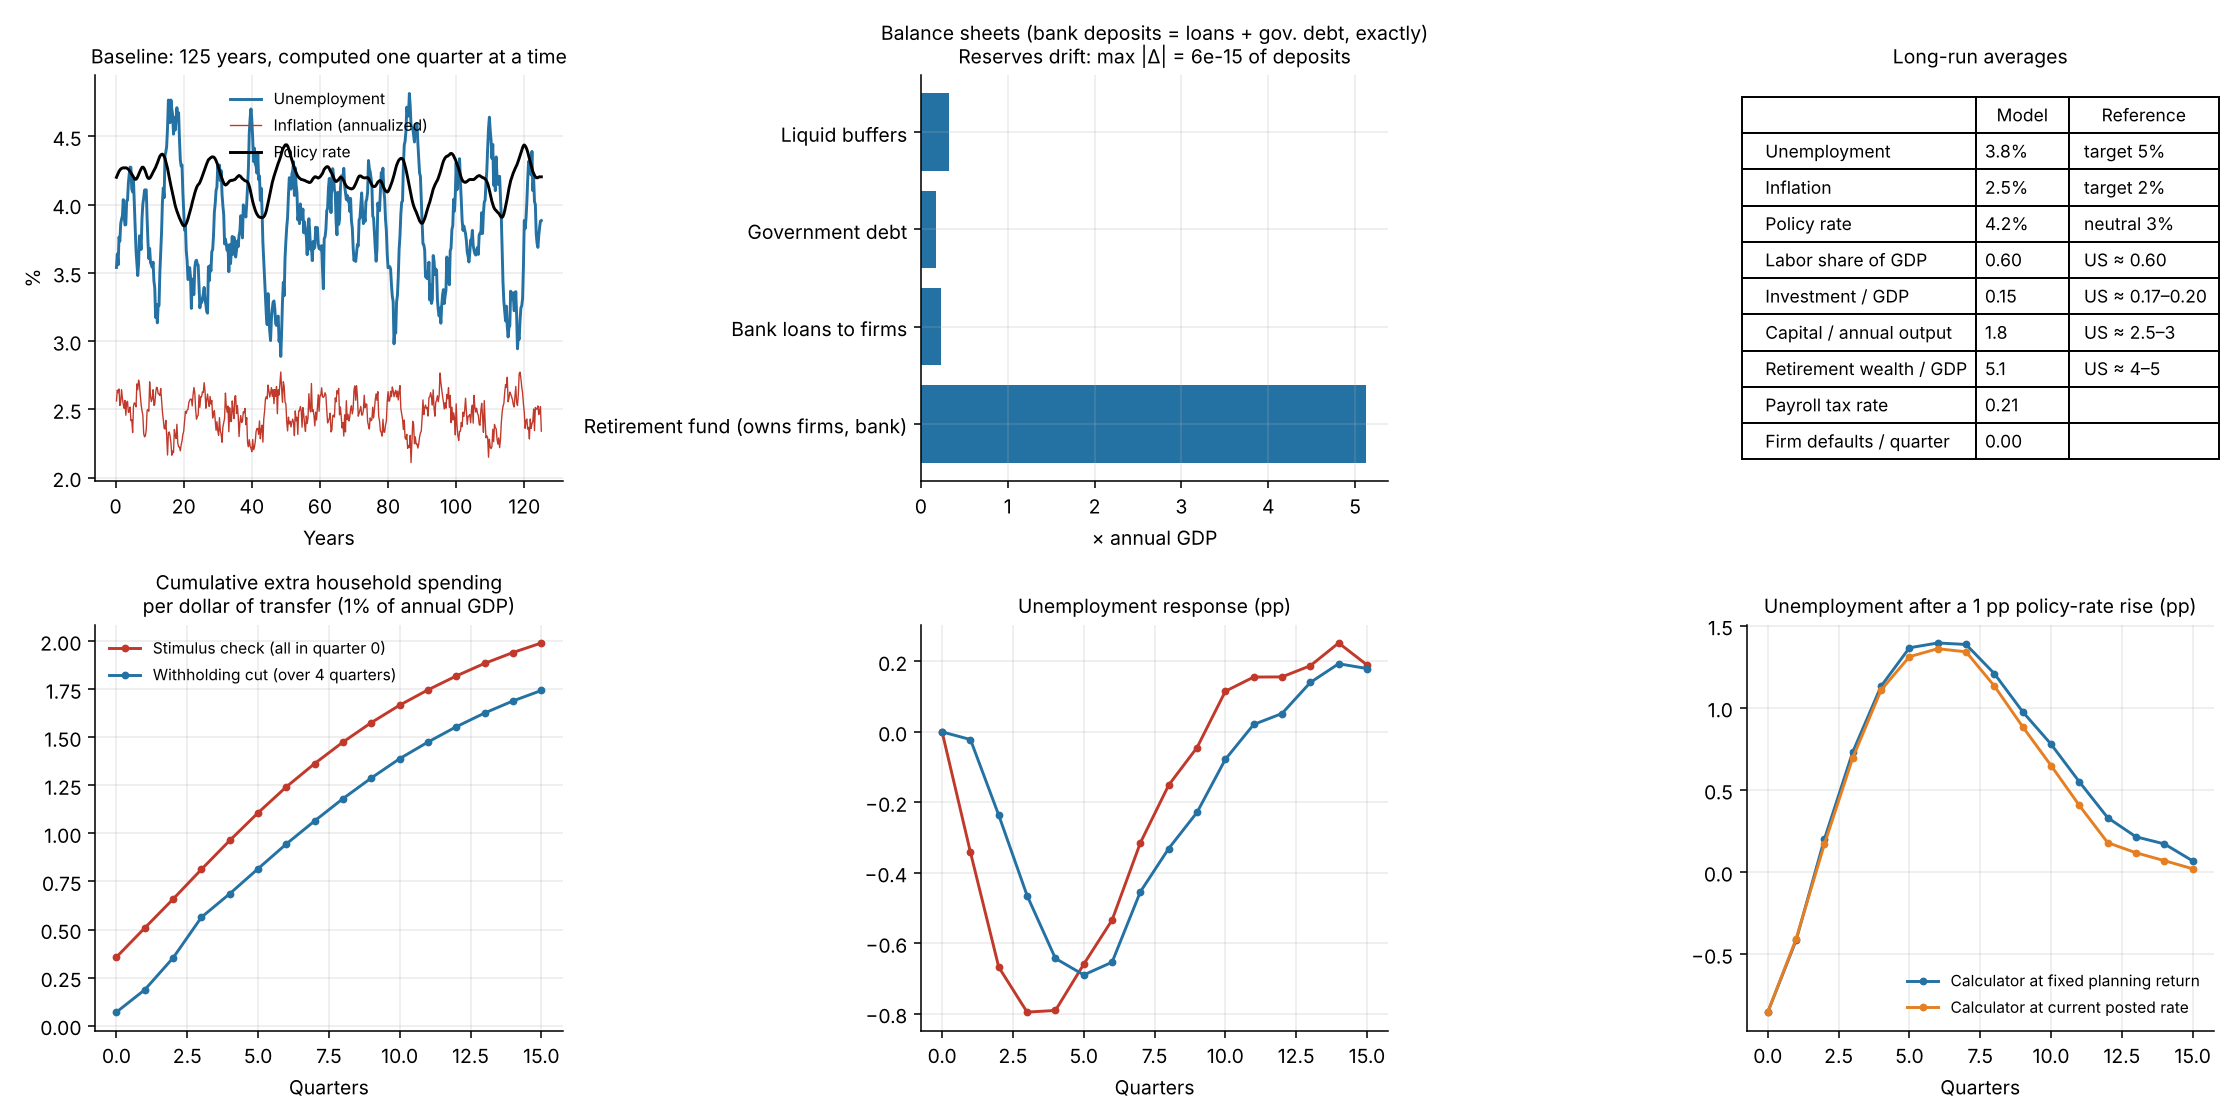
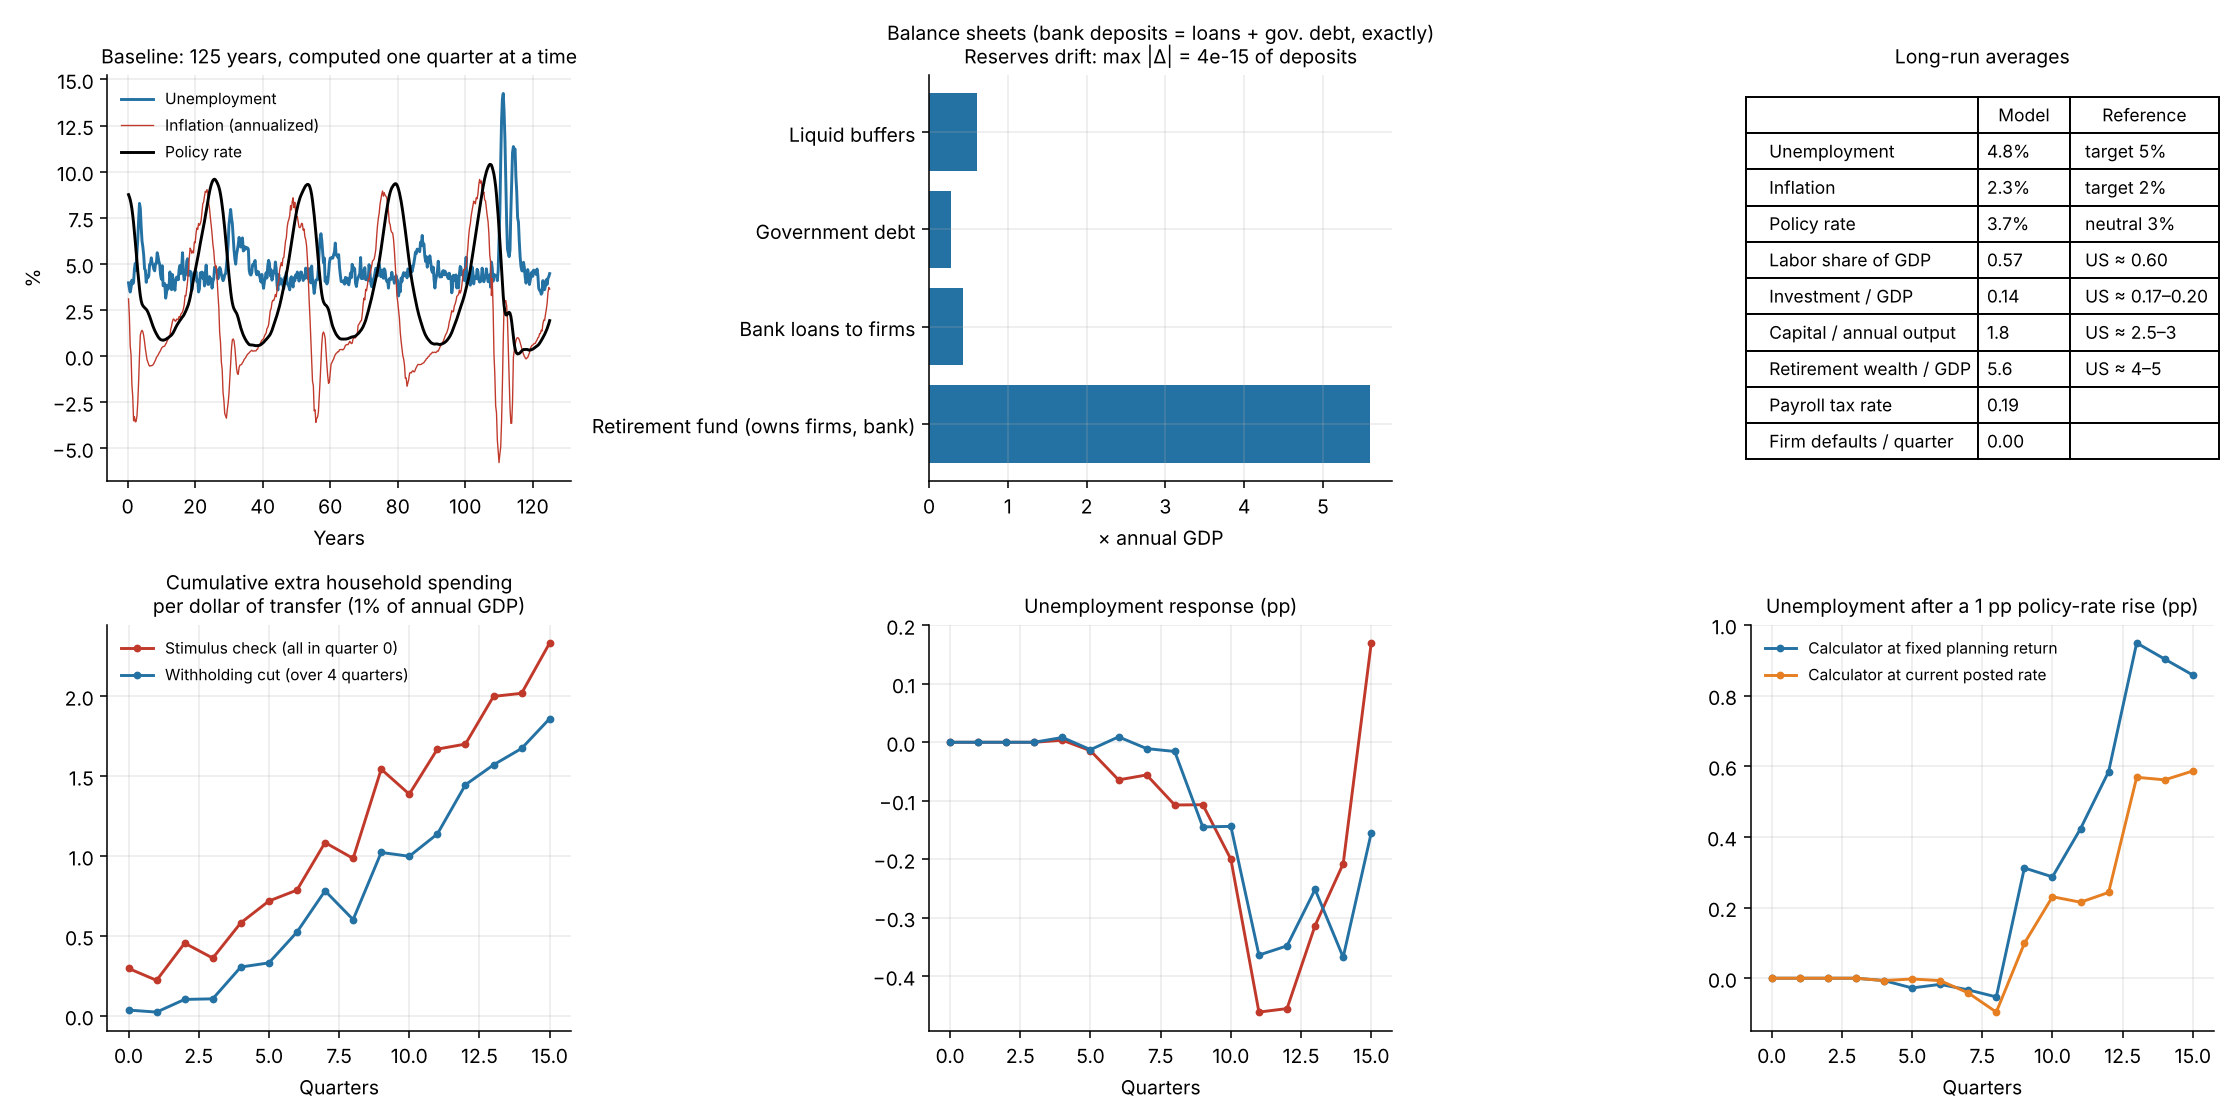
Wage posting: firms post wages, workers choose employers; annual staggered reviews
Firms choose the wage that maximizes expected quarterly profit given the workforce
it sustains under their own applicant and quit beliefs; no nominal cuts (morale);
wages reviewed once a year. Optional matching function (m_match) for cyclical
contact rates, off by default (produces boom-bust cycles).

Claude-Session: https://claude.ai/code/session_01A1VHts1CeJdTV1mMiXNsTj

diff --git a/model/macro.py b/model/macro.py
@@ -77,11 +77,17 @@ class MParams:
         self.g_earn = 0.25          # forgetting rate on firms' earnings (trailing year)
         self.fund_cash_q = 0.5      # cash kept for withdrawals, in quarters of withdrawals
         # wage posting (replaces the wage rule)
-        self.wage_posting = False   # work in progress; False = placeholder wage rule (v3 results)
+        self.wage_posting = True    # False = placeholder wage rule (v3 results)
         self.eta_L = 6.0            # workers' elasticity of job choice to the relative wage (logit)
         self.ojs = 0.10             # share of employed workers searching on the job each quarter
+        self.review_q = 4           # quarters between a firm's wage reviews (staggered across firms): annual
+        self.anchor = 0.0           # weight of the published inflation target in firms' nominal growth beliefs (off)
+        self.match_el = 0.5         # elasticity of the contact rate to labor-market tightness (matching function)
+        self.m_match = None         # matching efficiency; None = constant contact rate
+        self.contact = 0.45         # probability an unemployed worker reaches employers in a quarter
+        self.amenity_sd = 0.10      # sd of match-specific amenities (log points) in job-to-job moves
         self.g_L = 0.25             # firms' forgetting rate on own applicant and quit evidence
-        self.g_W = 0.25             # firms' forgetting rate on observed growth of the going wage
+        self.g_W = 0.05             # firms' forgetting rate on observed growth of the going wage
         self.burn_hh = 600          # household-only burn-in for the initial distribution
         self.seed = 1
         self.__dict__.update(kw)
@@ -135,7 +141,8 @@ class Macro:
         self.job[ew] = self.rng.integers(0, F, len(ew))
         self.w = np.full(F, self.W)
         self.gW_e = mp.pi_star
-        self.lnapp = np.full(F, np.log(3.0))     # belief: applicants per unit of vacancy at the going wage
+        self.theta = 1.0                          # last quarter's vacancies per unemployed worker
+        self.lnapp = np.full(F, np.log(0.15 * (self.z @ work) / F))   # belief: applicants per quarter at the going wage
         self.lnQ = np.full(F, np.log(0.02))      # belief: quit rate at the going wage
         # ---------------- bank and government: government account is the residual that sets reserves to zero
         self.E_B = mp.cap_B * self.loan.sum()
@@ -178,7 +185,8 @@ class Macro:
         xi lognormal with mean 1. C is the labor cost of producing with current capital; v is the value of a
         unit carried into next quarter (replacement cost net of spoilage, discounted at the loan rate)."""
         mp = self.mp; a_, Z, F = mp.alpha, mp.Z, mp.F
-        Pref = self.P_prev
+        Pref = self.P_ref()
+        self.Pref_used = Pref
         e_f = mp.eps * (1 - self.share_prev)                  # own-price elasticity buyers' choices imply
         sig = np.sqrt(self.sig2)
         uc = self.unit_cost(W, Pref * (rL + mp.delta))       # rL here is the firm's own marginal cost of funds (array)
@@ -222,7 +230,7 @@ class Macro:
         of capital plus a convex adjustment cost, at posted prices (buy at P, resell at (1-delta)P):
             min over K':  W L(s_hat, K') + P (rL + delta) K' + phi P K ((K' - K)/K)^2 / 2,  K' >= (1-delta) K."""
         mp = self.mp; a_, Z = mp.alpha, mp.Z
-        P, K = self.P_prev, self.K
+        P, K = self.P_ref(), self.K
         uK = P * (rL + mp.delta)
         L = lambda Kn: (s_hat / (Z * Kn ** a_)) ** (1 / (1 - a_))
         f = lambda Kn: W * a_ / (1 - a_) * L(Kn) / Kn - uK - mp.phi_K * P * (Kn - K) / K   # decreasing in K'
@@ -233,6 +241,45 @@ class Macro:
             lo = np.where(pos, mid, lo); hi = np.where(pos, hi, mid)
         Kn = 0.5 * (lo + hi)
         return np.where(f((1 - mp.delta) * K) <= 0, (1 - mp.delta) * K, Kn)
+
+    def wage_choice(self, We, p, mu, v, L_prev, B, Q, floor_x):
+        """Each firm's wage problem, given its price and demand belief from the quarter problem. A wage is a policy
+        that persists (the firm does not cut it), so the firm evaluates it by the workforce it sustains under its
+        beliefs, inflow = outflow:  B x^eta = L (sep + Q x^-eta),  i.e.  E(w) = B x^eta / (sep + Q x^-eta),  x = w / We:
+            max over w >= own last wage:  p E[min(D, S)] + v E[(S - D)+] - w L,   S = n + y(L),  L = min(L_u(w), E(w)),
+        where L_u(w) is the labor the stocking FOC asks for at cost w."""
+        mp, hp = self.mp, self.hp; a_, Z, F, eta = mp.alpha, mp.Z, mp.F, mp.eta_L
+        xg = floor_x[:, None] * (1 + np.linspace(0.0, 0.25, 51))[None, :]
+        w = xg * We
+        E = B[:, None] * xg ** eta / (hp.sep + Q[:, None] * xg ** (-eta))
+        kfac = (Z * self.K ** a_) ** (1 / (1 - a_))
+        n = self.inv[:, None]; s_ = np.sqrt(self.sig2)[:, None]; P_ = p[:, None]; M = mu[:, None]; v_ = v[:, None]
+        Cp = lambda y: w / (1 - a_) * np.maximum(y, 0) ** (a_ / (1 - a_)) / kfac[:, None]
+        lo = n + 0 * w; hi = n + 3 * M * np.exp(4 * s_) + 0 * w
+        for _ in range(50):
+            S = 0.5 * (lo + hi)
+            pr = ndtr((np.log(M / S) - s_ ** 2 / 2) / s_)
+            g = P_ * pr + v_ * (1 - pr) - Cp(S - n)
+            lo = np.where(g > 0, S, lo); hi = np.where(g > 0, hi, S)
+        S_u = 0.5 * (lo + hi)
+        L_u = (np.maximum(S_u - n, 0) ** (1 / (1 - a_))) / kfac[:, None]
+        L = np.minimum(L_u, E)
+        S = n + Z * (self.K ** a_)[:, None] * L ** (1 - a_)
+        d2 = (np.log(M / S) - s_ ** 2 / 2) / s_
+        Emin = M - (M * ndtr(d2 + s_) - S * ndtr(d2))
+        val = P_ * Emin + v_ * (S - Emin) - w * L
+        k = val.argmax(1); idx = np.arange(F)
+        return w[idx, k], E[idx, k]
+
+    def anchored(self, g_obs):
+        """Belief about nominal growth: Bayesian with a prior centered on the published inflation target that is
+        never forgotten (weight anchor) and evidence discounted at a constant rate (the EWMA g_obs)."""
+        mp = self.mp
+        return mp.anchor * mp.pi_star + (1 - mp.anchor) * g_obs
+
+    def P_ref(self):
+        """Firms' expected price index this quarter: last observed x (1 + believed inflation)."""
+        return self.P_prev * (1 + self.anchored(self.pi_e)) if self.mp.wage_posting else self.P_prev
 
     # ------------------------------------------------------------------ labor market with posted wages
     def Wbar_obs(self):
@@ -248,7 +295,8 @@ class Macro:
         hp, mp, rng = self.hp, self.mp, self.rng
         N, F, z = hp.N, mp.F, self.z
         job = self.job
-        u_sep, u_ojs, k_lay, u_c1, k_1, u_c2, k_2 = (rng.random(N) for _ in range(7))
+        u_sep, u_ojs, k_lay, u_c1, k_1, u_c2, k_2, u_ct = (rng.random(N) for _ in range(8))
+        zeta = mp.amenity_sd * rng.standard_normal(N)                   # match-specific amenity of the job offered
         job[~work] = -1
         L_prev = np.bincount(job[job >= 0], z[job >= 0], F)
         job[(job >= 0) & (u_sep < hp.sep)] = -1                       # exogenous separations
@@ -271,14 +319,14 @@ class Macro:
         quits = np.zeros(F); apps = np.zeros(F); hired = np.zeros(F)
 
         def round_(seek, u_c, key, V_left, count_apps):
-            wt = V_left * (w / We) ** mp.eta_L
+            wt = (V_left > 1e-9) * (w / We) ** mp.eta_L          # seekers consider the firms that are hiring
             if wt.sum() <= 0 or seek.sum() == 0:
                 return V_left
             cdf = np.cumsum(wt) / wt.sum()
             idx = np.nonzero(seek)[0]
             ch = np.minimum(np.searchsorted(cdf, u_c[idx]), F - 1)
             cur = job[idx]
-            ok = (cur < 0) | (w[ch] > w[np.maximum(cur, 0)])             # on-the-job searchers move only for more pay
+            ok = (cur < 0) | (w[ch] * np.exp(zeta[idx]) > w[np.maximum(cur, 0)])   # on-the-job searchers move if the offer beats their job
             idx, ch, cur = idx[ok], ch[ok], cur[ok]
             if count_apps:
                 apps[:] += np.bincount(ch, z[idx], F)
@@ -295,13 +343,19 @@ class Macro:
             hired[:] += got
             return np.maximum(0.0, V_left - got)
 
-        seek1 = work & ((job < 0) | (u_ojs < mp.ojs))
+        # search technology (matching function): the chance an unemployed worker reaches employers rises with
+        # last quarter's vacancies per unemployed worker
+        c_rate = mp.contact if mp.m_match is None else min(0.95, mp.m_match * self.theta ** mp.match_el)
+        contact = u_ct < c_rate
+        seek1 = work & (((job < 0) & contact) | ((job >= 0) & (u_ojs < mp.ojs)))
         V2 = round_(seek1, u_c1, k_1, V.copy(), True)
         V2 = np.maximum(0.0, V2 + 0.0)
-        seek2 = work & (job < 0)
+        seek2 = work & (job < 0) & contact
         round_(seek2, u_c2, k_2, V2, False)
         L_f = np.bincount(job[job >= 0], z[job >= 0], F)
         emp = job >= 0
+        U = z[work & (job < 0)].sum()
+        self.theta = V.sum() / max(U, 1e-9)                              # vacancies per unemployed (efficiency units)
         return L_f, emp, quits, apps, V, L_prev
 
     # ------------------------------------------------------------------ accounting
@@ -344,18 +398,21 @@ class Macro:
         # the fund, which requires the deposit rate plus its published equity premium
         r_own = np.where(self.loan > 0, rL, self.rb_lr + mp.erp)
         if mp.wage_posting:
-            # wage posting: the firm's labor cost is its own wage. Expected going wage = last observed x (1 + believed
-            # growth). A hiring firm pays the least wage at which its applicants (belief) fill its vacancies; a firm
-            # that is not hiring keeps its wage (cutting it lowers effort of all incumbents: morale, Bewley).
-            We = self.Wbar_obs() * (1 + self.gW_e)
-            app, Q, eta = np.exp(self.lnapp), np.exp(self.lnQ), mp.eta_L
+            # wage posting. Expected going wage = last observed x (1 + believed growth). The firm's labor supply,
+            # in its own beliefs: incumbents who stay (quits fall with its relative wage) plus applicants (rise with
+            # it). It picks the wage, paid to all its workers, that maximizes the quarter's expected profit, and it
+            # does not cut its own nominal wage (a cut lowers the effort of all incumbents: morale, Bewley).
+            We = self.Wbar_obs() * (1 + self.anchored(self.gW_e))
+            B, Q = np.exp(self.lnapp), np.exp(self.lnQ)
             L_prev = np.bincount(self.job[self.job >= 0], self.z[self.job >= 0], F)
-            w_hire = np.maximum(self.w, We * app ** (-1 / eta))
-            self.p, S, mu_s, v = self.price_and_stock(w_hire, r_own)
-            L_star = L_need(np.maximum(0.0, S - self.inv))
-            R = L_prev * np.clip(1 - hp.sep - Q * (w_hire / We) ** (-eta), 0, 1)
-            w_post = np.where(L_star > R, w_hire, self.w)
+            w0 = np.maximum(self.w, We)
+            p0, S0, mu0, v0 = self.price_and_stock(w0, r_own)
+            w_post, L_cap = self.wage_choice(We, p0, mu0, v0, L_prev, B, Q, self.w / We)
+            if mp.review_q > 1:                                 # wages are reviewed once every review_q quarters (staggered)
+                rev = (np.arange(F) + self.t) % mp.review_q == 0
+                w_post = np.where(rev, w_post, self.w)
             self.p, S, mu_s, v = self.price_and_stock(w_post, r_own)
+            S = np.minimum(S, self.inv + Z * self.K ** a_ * L_cap ** (1 - a_))
             W_firm = w_post
         else:
             W_firm = W
@@ -372,10 +429,10 @@ class Macro:
         if mp.wage_posting:
             Ld, emp, quits, apps, V, L_prev = self.labor_market(w_post, We, Ld, work)
             L_emp = emp @ self.z
-            # beliefs from own evidence: applicants per vacancy and quit rate, both at the going wage
+            # beliefs from own evidence: applicants and quit rate, both at the going wage
             x = w_post / We
             hire = V > 1e-9
-            obs_a = np.log(np.maximum(apps, 1e-6) / np.maximum(V, 1e-9) / x ** mp.eta_L)
+            obs_a = np.log(np.maximum(apps, 1e-6) / x ** mp.eta_L)
             self.lnapp = np.where(hire, (1 - mp.g_L) * self.lnapp + mp.g_L * obs_a, self.lnapp)
             obs_q = np.log(np.maximum(quits / np.maximum(L_prev, 1e-9), 1e-4) * x ** mp.eta_L)
             self.lnQ = np.where(L_prev > 0, (1 - mp.g_L) * self.lnQ + mp.g_L * obs_q, self.lnQ)
@@ -549,7 +606,7 @@ class Macro:
         loss_rate = loss.sum() / max((self.loan + loss).sum(), 1e-12)
         self.loss_e = (1 - mp.g_loss) * self.loss_e + mp.g_loss * loss_rate
         e_f = mp.eps * (1 - self.share_prev_used)
-        err = np.log(np.maximum(q_dem, 1e-12)) + e_f * np.log(self.p / self.P_prev) - self.lnA
+        err = np.log(np.maximum(q_dem, 1e-12)) + e_f * np.log(self.p / self.Pref_used) - self.lnA
         self.lnA += mp.g_A * err
         self.sig2 = np.maximum((1 - mp.g_sig) * self.sig2 + mp.g_sig * err ** 2, 1e-4)
         pi = P_paid / self.P_prev - 1
@@ -578,7 +635,7 @@ class Macro:
                     Y=sold.sum(), C=c_real.sum(), I=I_real.sum(), GDP=GDP, fill=fill, inv=self.inv.sum(),
                     K=self.K.sum(), loans=self.loan.sum(), debt=-self.g, E_B=self.E_B, B=self.b.sum(),
                     A=self.a.sum(), M_f=self.m.sum(), defaults=int((loss > 0).sum()), loss_rate=loss_rate,
-                    reserves=self.reserves() - self.R0, y=y.sum(), Ld_pre=Ld_pre, div=div_f.sum() + div_B, profit_share=(div_f.sum()) / max(GDP, 1e-12),
+                    reserves=self.reserves() - self.R0, theta=self.theta, y=y.sum(), Ld_pre=Ld_pre, div=div_f.sum() + div_B, profit_share=(div_f.sum()) / max(GDP, 1e-12),
                     wage_share=wb_f.sum() / max(GDP, 1e-12), wage_disp=float(np.std(np.log(W_firm * np.ones(F)))), spend_h=S_h.sum() * fill, contrib=da[da > 0].sum(),
                     withdraw=-da[da < 0].sum(), kappa_mean=float(self.kappa[work].mean()),
                     markup=float(np.mean(self.p)) / uc_rec,

diff --git a/model/scan_wp.py b/model/scan_wp.py
@@ -1,0 +1,10 @@
+import numpy as np, sys, json
+from multiprocessing import Pool
+from run_macro import build
+def run(kw):
+    m=build(wage_posting=True, **kw); R=[m.step() for t in range(1000)][300:]
+    k=lambda n: np.array([r[n] for r in R])
+    return kw, "u %.1f sd %.2f | pi %.1f sd %.1f | i %.1f sd %.1f | ws %.2f mk %.2f I/Y %.3f jj %.3f" % (100*k('u').mean(),100*k('u').std(),400*k('pi').mean(),400*k('pi').std(),400*k('i').mean(),400*k('i').std(),k('wage_share').mean(),k('markup').mean(),(k('I')/k('Y')).mean(), k('wage_disp').mean())
+cfgs=[json.loads(a) for a in sys.argv[1:]]
+with Pool(4) as p:
+    for kw,o in p.map(run,cfgs): print(kw, o, flush=True)

diff --git a/model/run_wp.py b/model/run_wp.py
@@ -1,0 +1,9 @@
+import sys, json, numpy as np
+from run_macro import build
+T=int(sys.argv[1]); kw=json.loads(sys.argv[2]) if len(sys.argv)>2 else {}
+m=build(wage_posting=True, **kw); Lf=m.z[m.age<m.hp.J_W].sum(); R=[]
+for t in range(T):
+    r=m.step(); R.append(r)
+    if t%20==0 or t==T-1:
+        print(f"{t:4d} u={r['u']:.3f} pi={400*r['pi']:+.1f} i={400*r['i']:.1f} W={r['W']:.3f} P={r['P']:.3f} Ld/Lf={r['Ld_pre']/Lf:.2f} ws={r['wage_share']:.2f} mk={r['markup']:.2f} wdisp={r['wage_disp']:.3f} I/Y={r['I']/r['Y']:.3f} A/GDP={r['A']/(4*r['GDP']):.2f} res={r['reserves']:.1e}", flush=True)
+json.dump(R, open("wp_run.json","w"))

diff --git a/README.md b/README.md
@@ -22,5 +22,8 @@ Code for a macro model that is computed one quarter at a time. Every agent decid
 
 ## Status
 
-- Wage posting (firms post wages, workers choose employers by logit, firms learn applicants and quits) is in `macro.py` behind `wage_posting`, off by default: it is not yet stable. With it off, wages follow a placeholder rule.
-- Still to replace with objectives: wage setting, bank rate margins. Planned: production lags.
+- Wages are posted by firms (`wage_posting=True`). Each firm picks the wage that maximizes the quarter's expected profit, evaluating it by the workforce it sustains under its own beliefs about applicants and quits; it does not cut its own nominal wage (morale); it reviews wages once a year (staggered). Workers choose among hiring firms by logit in the relative wage; on-the-job searchers move if an offer plus a match-specific amenity beats their job.
+- Baseline is stable over 1,000 quarters and across seeds: unemployment ≈ 4.8%, inflation ≈ 2.3%, policy rate ≈ 3.8%, labor share ≈ 0.57.
+- Open problem: with a constant contact rate, unemployment is almost purely frictional, so demand shocks barely move it for two years. A matching function (`m_match`, contact rising with vacancies per unemployed) makes unemployment cyclical but produces a regular boom-bust cycle in which unemployment swings between 0% and 10%.
+- `wage_posting=False` reproduces the earlier placeholder wage rule.
+- Still to replace with objectives: bank rate margins. Planned: production lags.
